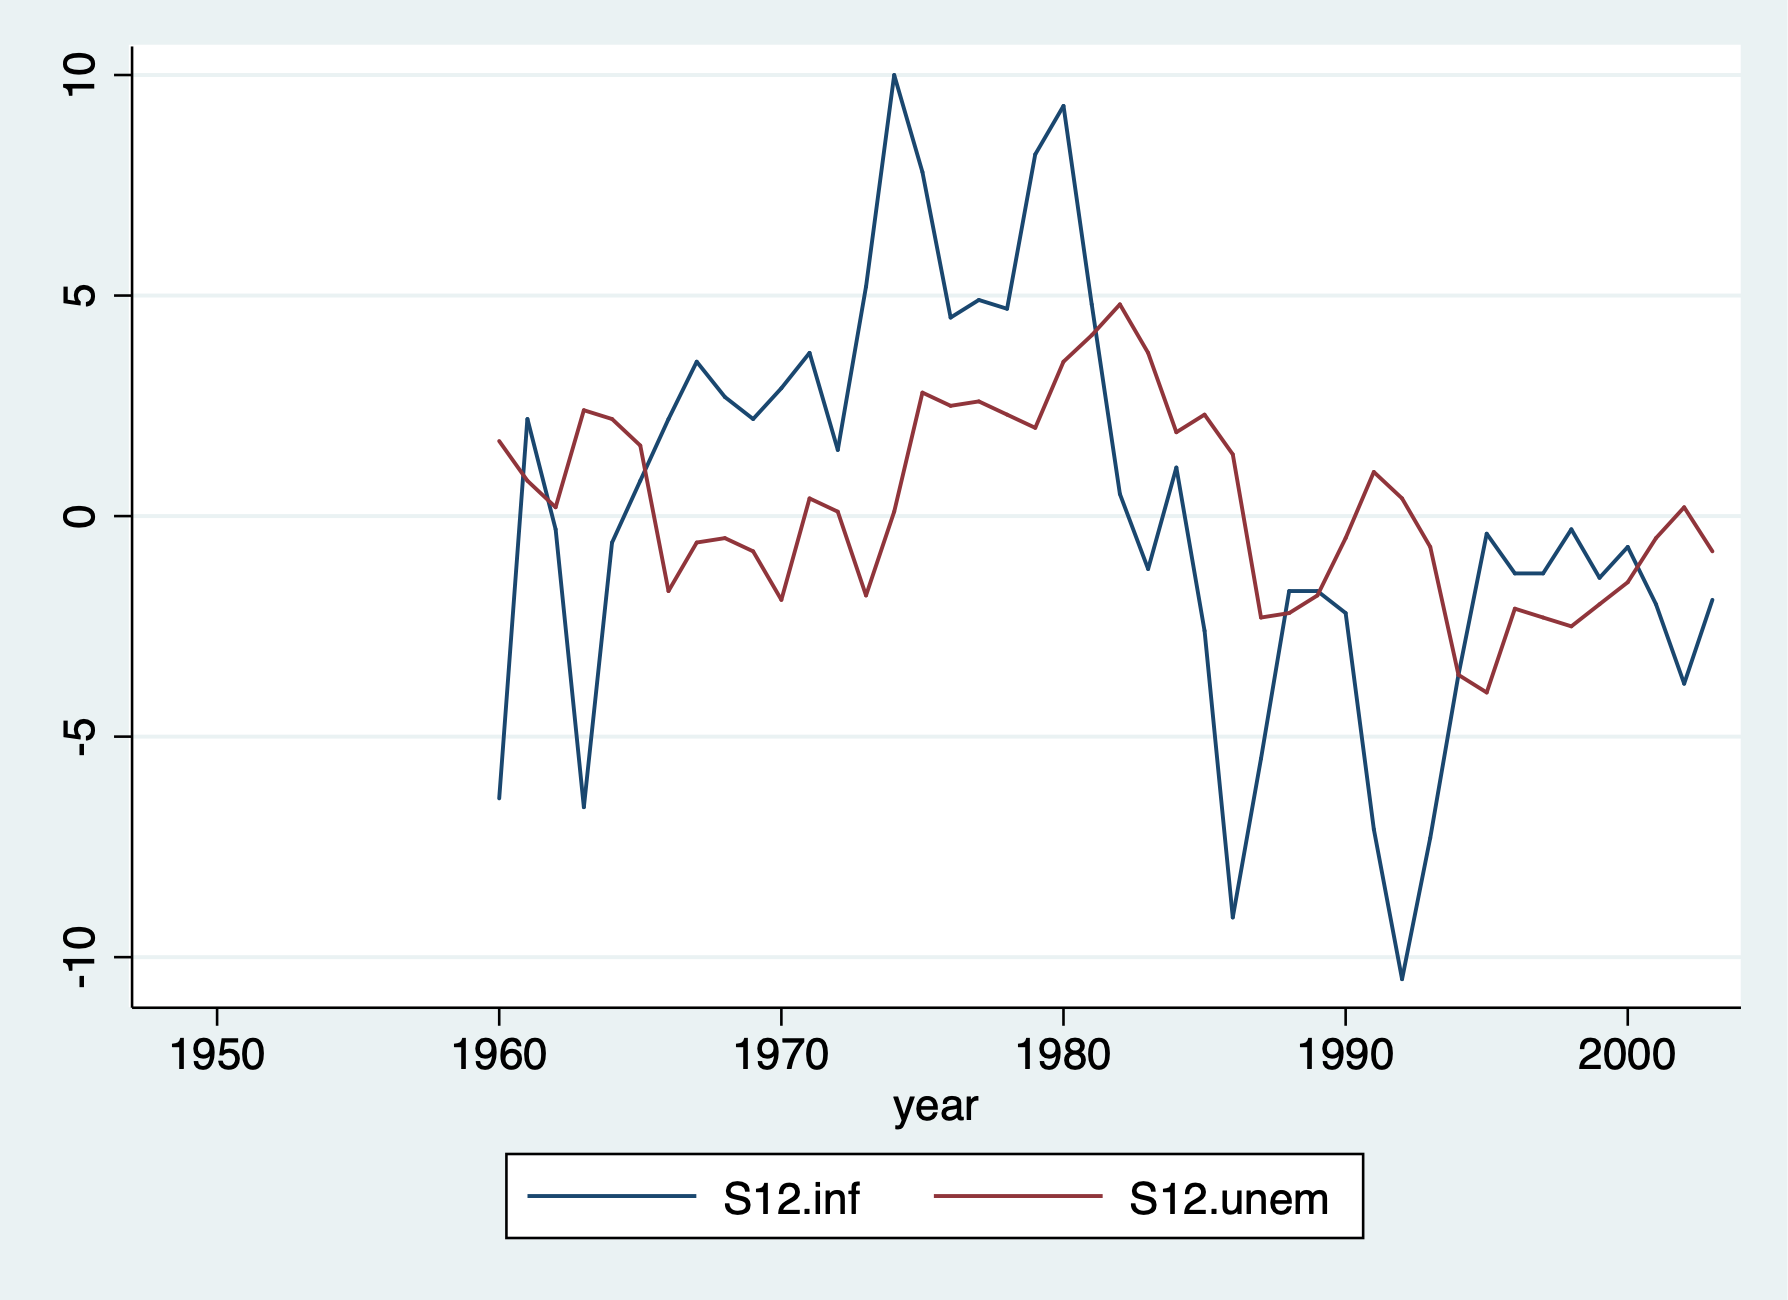
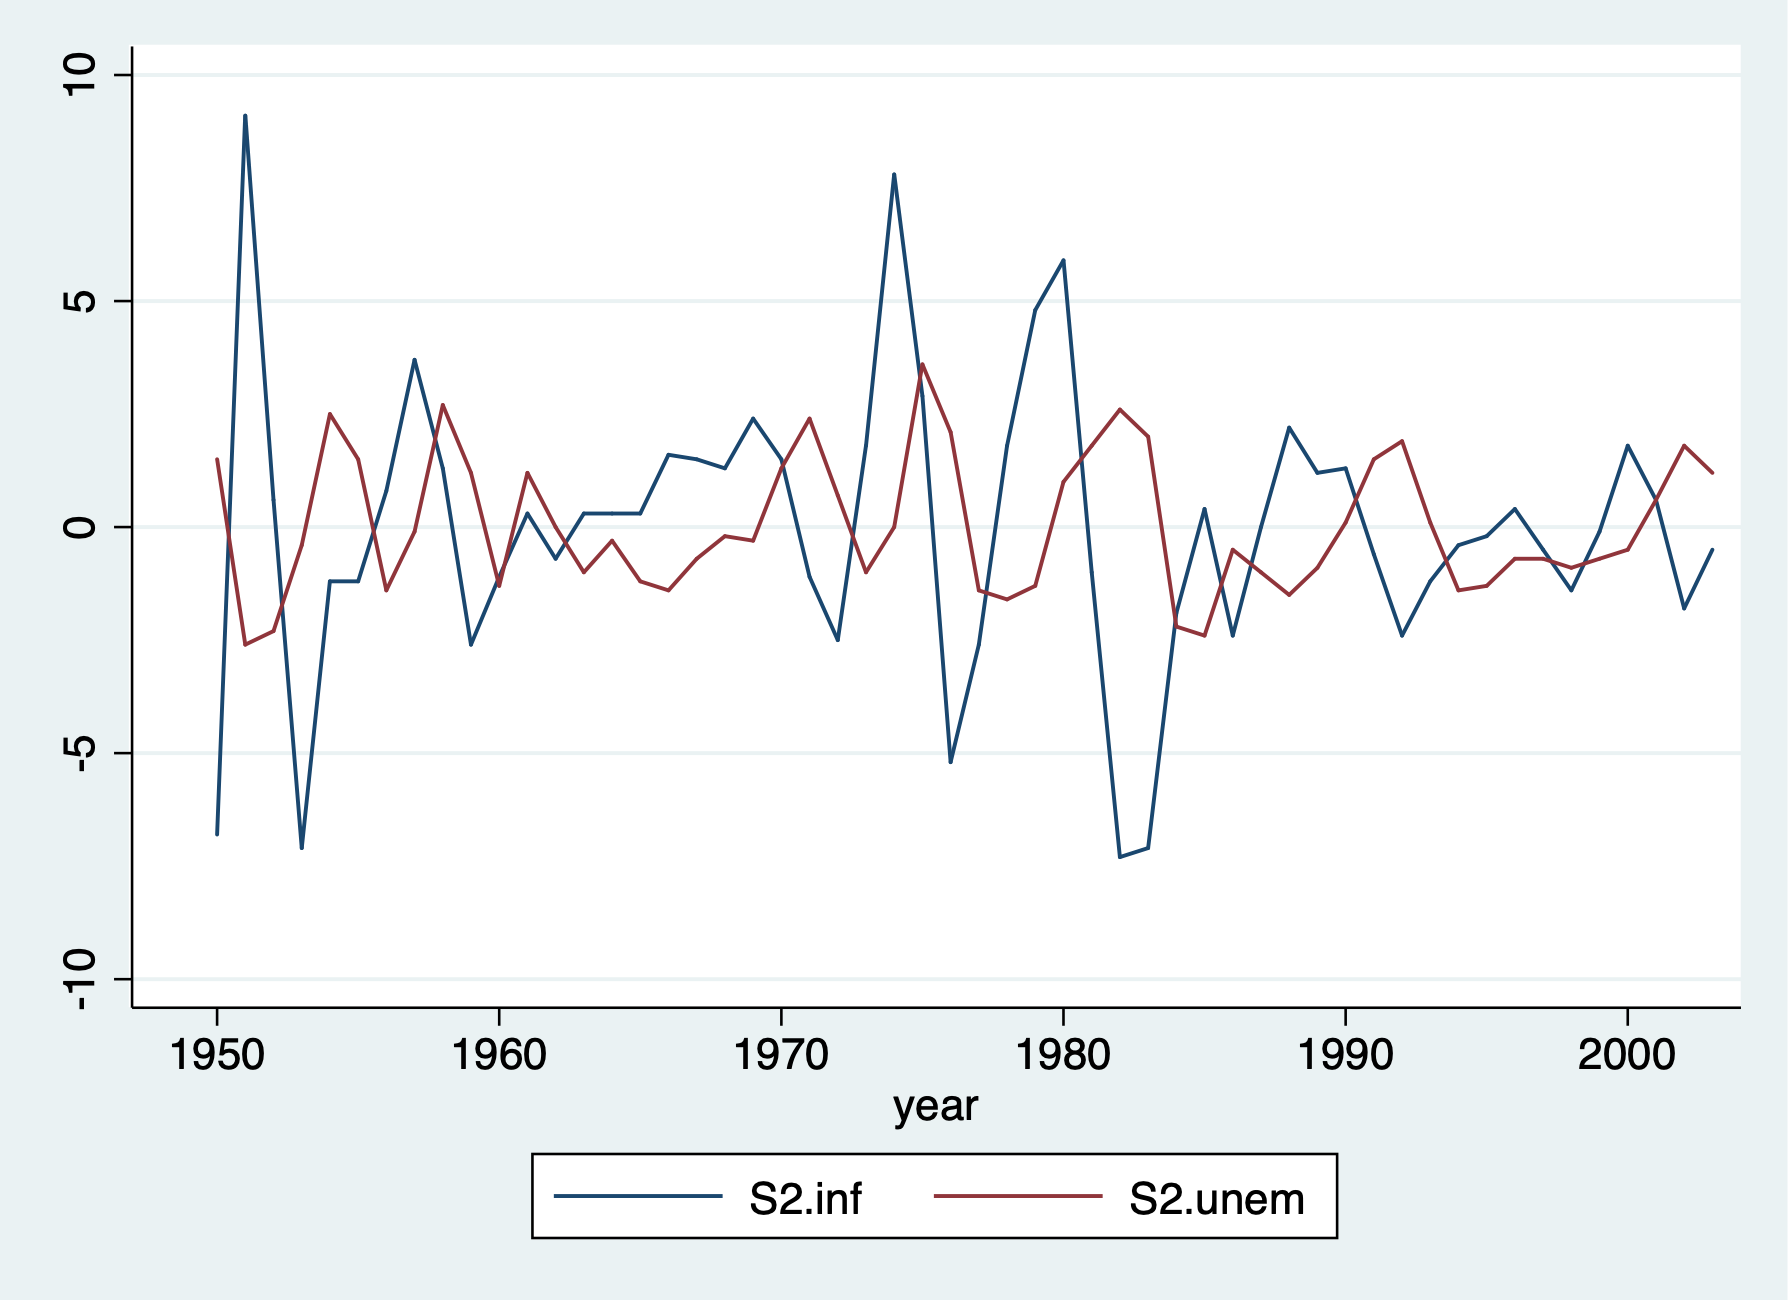
Update 5/4/2025 1.1
Update 5/4/2025 1.1

diff --git a/Stata/week_10_TS1.html b/Stata/week_10_TS1.html
@@ -328,13 +328,17 @@ gives the difference in differences (not the research design. Such that
 x_{t-1} - (x_{t-1}-x_{t-2}) \]</span> <span class="math display">\[ S2 =
 x_{t} - x_{t-2} \]</span></p>
 <p>We can take the 12-month difference in the time series as well.</p>
-<pre class='stata'>. tsline s12.inf s12.unem
+<pre class='stata'>. tsline s2.inf s2.unem
 
 . graph export "/Users/Sam/Desktop/Econ 645/Stata/week_10_ts_D12infemp.png", replace
 (file /Users/Sam/Desktop/Econ 645/Stata/week_10_ts_D12infemp.png written in PNG format)
 </pre>
-<p>[TSLINE graph of seasonal difference of 12 in inflation and
-unemployment][week_10_ts_D12infemp.png]</p>
+<figure>
+<img src="week_10_ts_D2infemp.png"
+alt="TSLINE graph of 2-year difference in inflation and unemployment" />
+<figcaption aria-hidden="true">TSLINE graph of 2-year difference in
+inflation and unemployment</figcaption>
+</figure>
 <h3>
 Inflation and Deficits on Interest Rates
 </h3>
